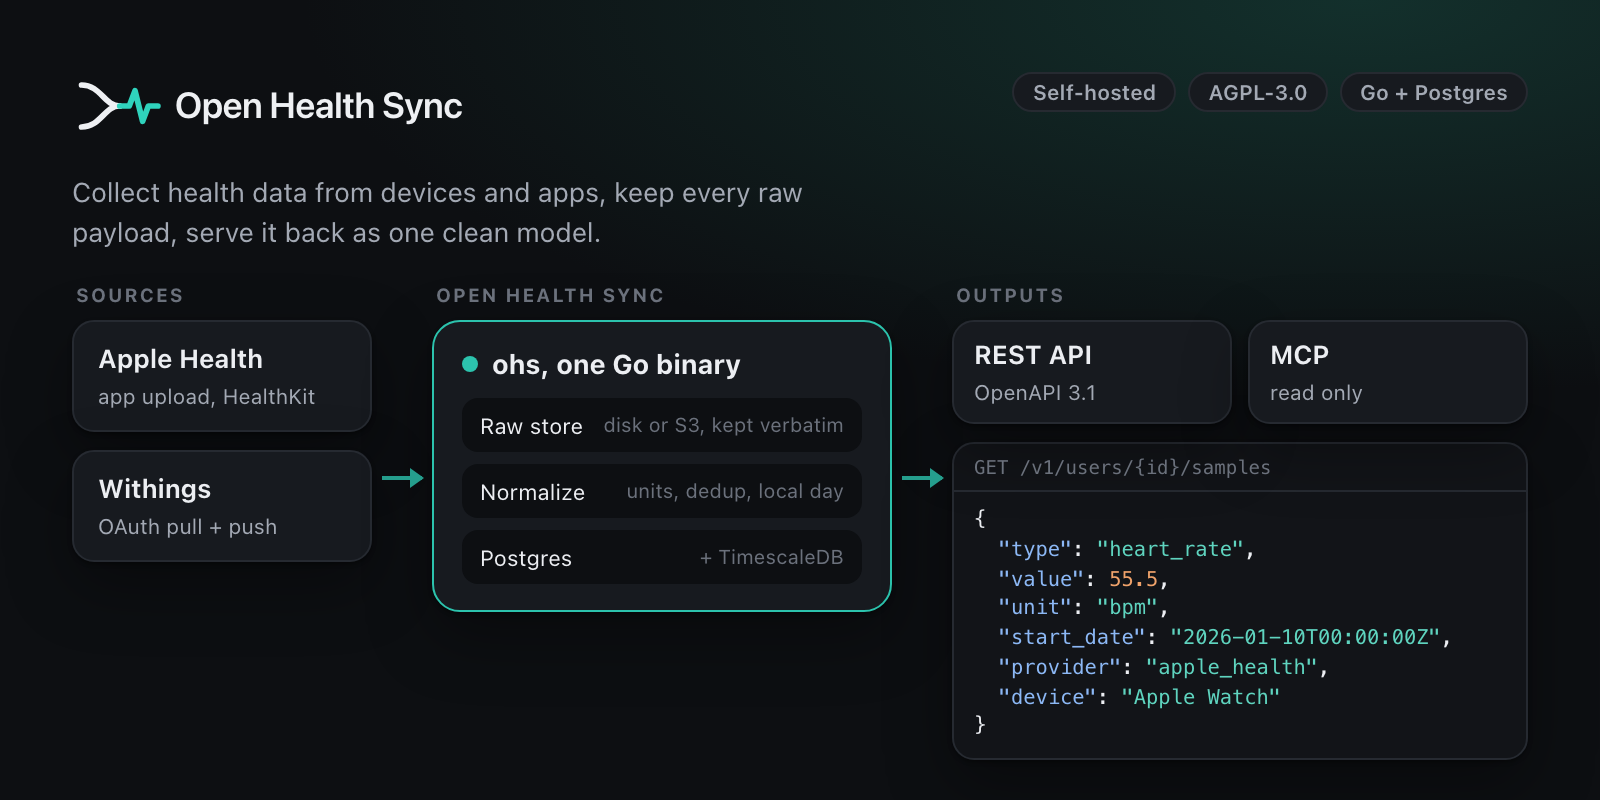
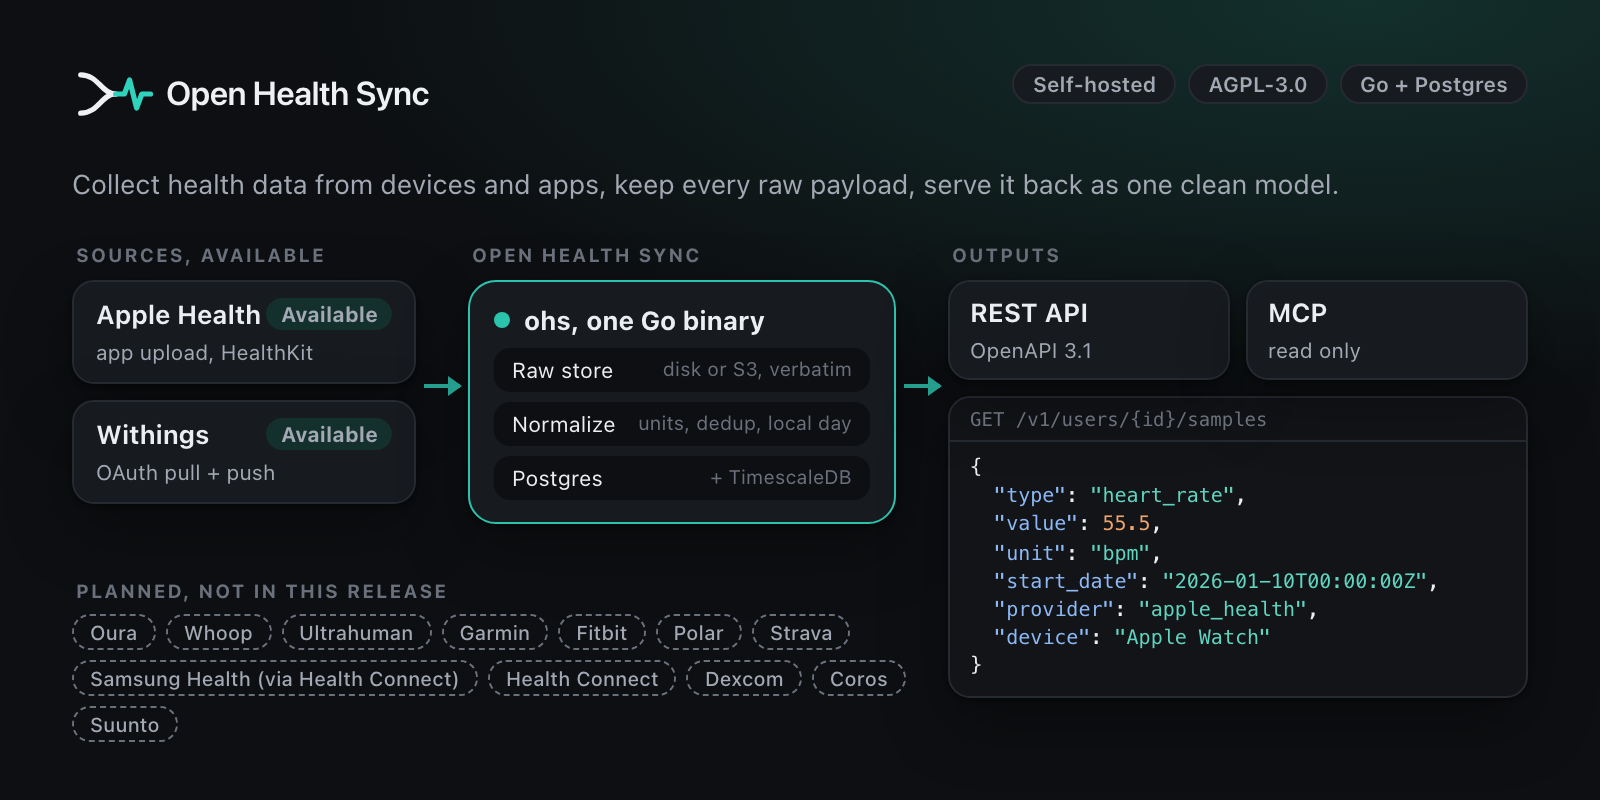
docs: planned providers and integration paths
Add docs/connectors/README.md with the supported and planned sources:
status, integration path (cloud API, partner program, on-device), data
types, access notes and tracking issues. Only Apple Health and Withings
are available. The README sources table lists every planned source with
an honest status, and the hero and social preview show them as planned
chips next to the two available cards.

diff --git a/docs/connectors/README.md b/docs/connectors/README.md
@@ -1,0 +1,57 @@
+# Connectors
+
+A connector teaches Open Health Sync one source. Two ship in v0.0.1: [Apple Health](apple-health.md)
+and [Withings](withings.md). Every other source below is **planned**: it is not in this release,
+and no code for it runs today. To build one, start with
+[writing a connector](../writing-a-connector.md).
+
+## Supported and planned sources
+
+Status:
+
+- **Available**: ships in this release.
+- **Planned**: on the roadmap, not built yet.
+- **Via Health Connect**: no server-side path we intend to use; the data would come through
+  Android's Health Connect and the planned Kotlin SDK. Planned, not built yet.
+- **No public API**: the vendor publishes no official API we can build on.
+
+Integration paths, as checked in October 2026 (vendors change their programs, so check the
+linked tracking issue or the vendor's developer site before you start):
+
+- **Cloud API, OAuth**: the server pulls from the vendor's cloud with the user's consent, and
+  may receive webhooks. A self-hosted instance needs its own developer app with the vendor.
+- **Partner program**: a cloud API, but only for companies the vendor approves.
+- **On-device**: the data lives on the phone (HealthKit on iOS, Health Connect or a vendor SDK
+  on Android). A mobile app has to read it and upload it.
+
+| Provider | Status | Integration path | Data types | Notes | Tracking |
+|---|---|---|---|---|---|
+| Apple Health | Available | On-device (HealthKit). Your iOS app uploads gzip NDJSON parts to `POST /v1/ingest/apple-health` | Quantities, categories, sleep, workouts and routes, nutrition; ECG and heartbeat series stored | No SDK ships yet: your app implements the [upload contract](apple-health.md). A Swift SDK is planned. Data that other apps and devices write to HealthKit arrives this way too | |
+| Withings | Available, not yet verified with a real account | Cloud API, OAuth 2.0, scheduled pulls and push notifications | Body measurements, activity, sleep, workouts, ECG | Bring your own Withings developer app ([guide](withings.md)) | |
+| Oura | Planned | Cloud API v2, OAuth 2.0 | Sleep, readiness, activity, heart rate, SpO2, workouts | Personal access tokens were retired at the end of 2025. Gen3 and later rings need an active Oura Membership for API access. An app needs Oura's approval past its first 10 users | [#5](https://github.com/soma-intelligence/open-health-sync/issues/5) |
+| Whoop | Planned | Cloud API v2, OAuth 2.0, webhooks (recovery, sleep, workout) | Recovery, sleep, cycles (strain), workouts, body measurements | App registered in the WHOOP Developer Dashboard. The public API has no raw heart rate series or ECG | [#6](https://github.com/soma-intelligence/open-health-sync/issues/6) |
+| Ultrahuman | Planned | Partner program (UltraSignal partner API), OAuth 2.0 | Sleep, HRV, skin temperature, recovery; glucose with the M1 patch | Not self-serve: companies apply and are onboarded. We could not confirm that new partners are accepted | |
+| Garmin | Planned | Partner program (Garmin Connect Developer Program: Health and Activity APIs), push and pull | Daily summaries, sleep, stress, heart rate, activities | For approved business developers only; some data needs a commercial license fee. Third parties report that new applications were paused in 2026: not confirmed by Garmin | [#9](https://github.com/soma-intelligence/open-health-sync/issues/9) |
+| Fitbit | Planned | Cloud API in transition: the legacy Fitbit Web API is replaced by the Google Health API | Activity, sleep, heart rate, SpO2, body | Google: support for the legacy Web API ends on 2026-09-30 and it is turned off on 2026-10-30. The Google Health API is not onboarding new projects yet. On Android, Fitbit data can also reach Health Connect | [#9](https://github.com/soma-intelligence/open-health-sync/issues/9) |
+| Polar | Planned | Cloud API (AccessLink v3), OAuth 2.0 | Exercises, daily activity, sleep, nightly recharge, physical info | Self-serve: a client is created at `admin.polaraccesslink.com` with a Polar Flow account; each user is registered after consent | [#8](https://github.com/soma-intelligence/open-health-sync/issues/8) |
+| Strava | Planned | Cloud API v3, OAuth 2.0, webhooks | Activities (workouts, streams, routes) | A new app serves 1 athlete, 10 after a self-upgrade, more after Strava's review. Webhooks are required to learn about deauthorizations. The 2026 API terms forbid AI training on API data and restrict intermediary platforms; third parties report a paid Strava subscription is now needed for API access | [#7](https://github.com/soma-intelligence/open-health-sync/issues/7) |
+| Coros | Planned | Cloud API, OAuth 2.0; a partner API with webhooks for established platforms | Activities, health metrics, fitness assessments | Partner access is requested from COROS (api@coros.com); full docs are shared after registration | |
+| Suunto | Planned | Partner program (Suunto Cloud API) | Workouts and activity | Companies apply to Suunto's partner program; current terms are not public | |
+| Dexcom | Planned | Cloud API v3, OAuth 2.0 (scope `offline_access`) | Estimated glucose values (EGVs), events, calibrations, devices, alerts | Free sandbox; production beyond a few users needs Dexcom's approval. Separate hosts for the US, EU and Japan | |
+| FreeStyle Libre, Omron | Planned | Not researched yet | Glucose; blood pressure | Contributions of research notes are welcome | |
+| Health Connect | Planned | On-device (Android). Needs the planned Kotlin SDK in your Android app | Steps, heart rate, sleep, exercise, nutrition, body measurements and more | By default an app reads back only 30 days before its first permission grant; older data needs the history permission. Many Android apps write here, which is how Samsung Health, Fitbit and Zepp data can reach it | |
+| Samsung Health | Via Health Connect | On-device only: the Samsung Health Data SDK (partner approval needed to distribute), or Health Connect, which Samsung Health writes to | Activity, sleep, heart rate, skin temperature | The older Samsung Health SDK for Android was deprecated on 2025-07-31. We plan to read Samsung Health data through Health Connect, which needs no Samsung partnership | |
+| Google Fit | Deprecated by Google, use Health Connect (planned Kotlin SDK) | None to build on | | Google closed sign-ups on 2024-05-01 and supports the Fit APIs only until the end of 2026. It points Android apps to Health Connect and cloud apps to the Google Health API | |
+| Zepp / Amazfit | Via Health Connect | On-device: the Zepp app writes to Health Connect on Android and to Apple Health on iOS | Steps, heart rate, sleep, workouts, calories | We found no official public API. On iPhone, what the Zepp app writes to HealthKit is ordinary Apple Health data | |
+| Eight Sleep | No public API | None | | Eight Sleep publishes no official developer API. Community clients call the private app API, which is unsupported and can change without notice; we will not build on it | |
+
+## Contributing a connector
+
+The open connector issues are labeled
+[`connector`](https://github.com/soma-intelligence/open-health-sync/issues?q=is%3Aissue%20is%3Aopen%20label%3Aconnector),
+and the smaller ones
+[`good first issue`](https://github.com/soma-intelligence/open-health-sync/issues?q=is%3Aissue%20is%3Aopen%20label%3A%22good%20first%20issue%22).
+Read [writing a connector](../writing-a-connector.md) first, and use the
+[connector request form](https://github.com/soma-intelligence/open-health-sync/issues/new/choose)
+for a source that is not listed. Tests use recorded fixtures with invented values and a fake of
+the provider API; no test calls a real provider.

diff --git a/README.md b/README.md
@@ -1,7 +1,7 @@
 <a href="#quickstart">
 <picture>
   <source media="(prefers-color-scheme: dark)" srcset="docs/assets/readme/hero-dark.png">
-  <img src="docs/assets/readme/hero-light.png" width="100%" alt="Open Health Sync: Apple Health and Withings flow into one Go binary (raw store, normalize, Postgres) and out as a REST API and a read-only MCP server. The JSON shown is a real heart rate sample read back from the API.">
+  <img src="docs/assets/readme/hero-light.png" width="100%" alt="Open Health Sync: Apple Health and Withings, the two available sources, flow into one Go binary (raw store, normalize, Postgres) and out as a REST API and a read-only MCP server. Oura, Whoop, Ultrahuman, Garmin, Fitbit, Polar, Strava, Samsung Health via Health Connect, Health Connect, Dexcom, Coros and Suunto are listed as planned, not in this release. The JSON shown is a real heart rate sample read back from the API.">
 </picture>
 </a>
 
@@ -101,19 +101,38 @@ Open Health Sync is that layer, written once, with the boring parts done properl
 
 ### Sources and outputs
 
-| Area | Item | Status |
-|---|---|---|
-| Sources | Apple Health (your iOS app uploads HealthKit data, [contract](docs/connectors/apple-health.md)) | Available |
-| Sources | Withings (OAuth, scheduled pulls, push notifications, [guide](docs/connectors/withings.md)) | Available, not yet verified with a real account |
-| Sources | Oura, Whoop, Ultrahuman, Garmin, Fitbit, Polar, Strava, Coros, Suunto | Planned |
-| Sources | Dexcom, Libre, Omron; Health Connect through the Android SDK | Planned |
-| Outputs | REST JSON, described by [api/openapi.yaml](api/openapi.yaml) | Available |
-| Outputs | MCP server, read only ([docs/mcp.md](docs/mcp.md)) | Available |
-| Outputs | Read routes for ECG recordings and heartbeat (RR) series, which are stored today | Planned |
-| Outputs | Outgoing webhooks, FHIR R4, Open mHealth, CSV and Parquet exports | Planned |
-| SDKs | Swift, Kotlin, React Native, Flutter | Planned |
+Two sources ship today. Every other one is planned: on the roadmap, not in this release.
+Integration paths, vendor programs and tracking issues for each:
+[docs/connectors](docs/connectors/README.md).
 
-Planned means on the roadmap and not in this release.
+| Source | Status | How the data arrives |
+|---|---|---|
+| Apple Health | ✅ Available | your iOS app uploads HealthKit data ([contract](docs/connectors/apple-health.md)) |
+| Withings | ✅ Available, not yet verified with a real account | OAuth, scheduled pulls, push notifications ([guide](docs/connectors/withings.md)) |
+| Oura | 🛠 Planned ([#5](https://github.com/soma-intelligence/open-health-sync/issues/5)) | cloud API, OAuth |
+| Whoop | 🛠 Planned ([#6](https://github.com/soma-intelligence/open-health-sync/issues/6)) | cloud API, OAuth, webhooks |
+| Strava | 🛠 Planned ([#7](https://github.com/soma-intelligence/open-health-sync/issues/7)) | cloud API, OAuth, webhooks |
+| Polar | 🛠 Planned ([#8](https://github.com/soma-intelligence/open-health-sync/issues/8)) | cloud API (AccessLink), OAuth |
+| Garmin, Fitbit | 🛠 Planned ([#9](https://github.com/soma-intelligence/open-health-sync/issues/9)) | partner program (Garmin); Fitbit Web API moving to the Google Health API |
+| Ultrahuman, Suunto | 🛠 Planned | partner programs |
+| Coros, Dexcom | 🛠 Planned | cloud API, OAuth |
+| FreeStyle Libre, Omron | 🛠 Planned | not researched yet |
+| Health Connect | 🛠 Planned | on-device, through the planned Kotlin SDK |
+| Samsung Health, Zepp / Amazfit | 🛠 Planned, via Health Connect | their apps write to Health Connect on Android |
+| Google Fit | Deprecated by Google | use Health Connect (planned Kotlin SDK) |
+| Eight Sleep | No public API | nothing official to build on |
+
+Want one sooner? Connectors are self-contained: read
+[writing a connector](docs/writing-a-connector.md) and pick a
+[good first issue](https://github.com/soma-intelligence/open-health-sync/issues?q=is%3Aissue%20is%3Aopen%20label%3A%22good%20first%20issue%22).
+
+| Output | Status |
+|---|---|
+| REST JSON, described by [api/openapi.yaml](api/openapi.yaml) | ✅ Available |
+| MCP server, read only ([docs/mcp.md](docs/mcp.md)) | ✅ Available |
+| Read routes for ECG recordings and heartbeat (RR) series, which are stored today | 🛠 Planned |
+| Outgoing webhooks, FHIR R4, Open mHealth, CSV and Parquet exports | 🛠 Planned |
+| SDKs: Swift, Kotlin, React Native, Flutter | 🛠 Planned |
 
 ## Quickstart
 
@@ -329,7 +348,8 @@ Anything that writes to Apple Health (Apple Watch, iPhone, and the apps and devi
 into HealthKit), through an iOS app that uploads it. No SDK ships yet: your app implements the
 [upload contract](docs/connectors/apple-health.md). Withings scales, watches and sleep devices
 through the user's Withings account; that connector is available but not yet verified with a
-real account. Other providers are [planned](#sources-and-outputs), and the
+real account. Oura, Whoop, Garmin, Fitbit, Polar, Strava, Samsung Health through Health Connect
+and more are [planned](docs/connectors/README.md), not available yet, and the
 [connector request form](https://github.com/soma-intelligence/open-health-sync/issues/new/choose)
 is open.
 
@@ -372,7 +392,8 @@ SDKs. Requests are welcome as GitHub issues, including the connector request for
 - [MCP server](docs/mcp.md): tools, credentials, desktop and remote agents.
 - [Data model](docs/data-model.md): every canonical type and quantity name, with units.
 - [Architecture](docs/architecture.md): roles, pipeline, storage, reliability.
-- Connectors: [Apple Health](docs/connectors/apple-health.md),
+- Connectors: [supported and planned sources](docs/connectors/README.md),
+  [Apple Health](docs/connectors/apple-health.md),
   [Withings](docs/connectors/withings.md), [writing your own](docs/writing-a-connector.md).
 
 ## Contributing
